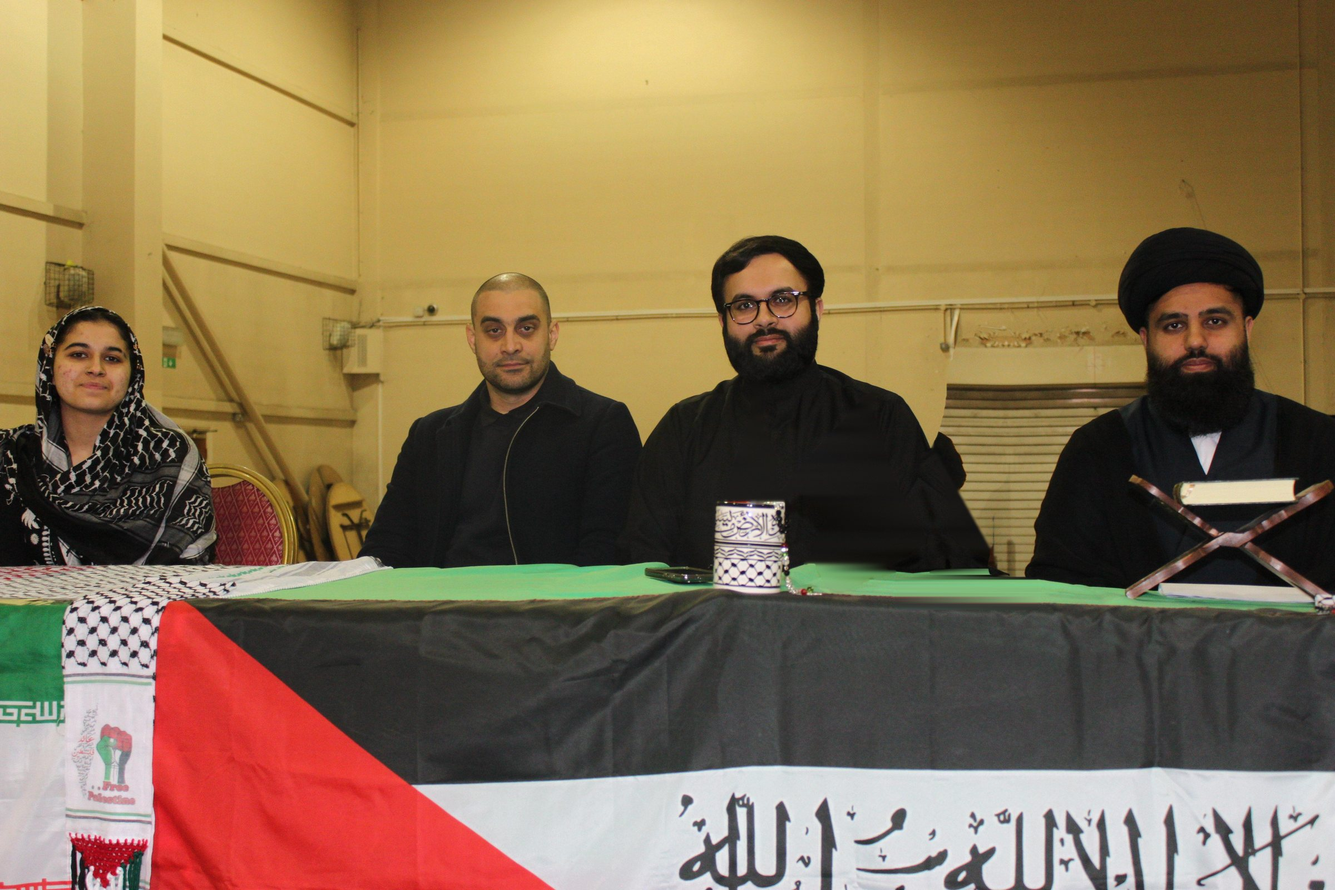
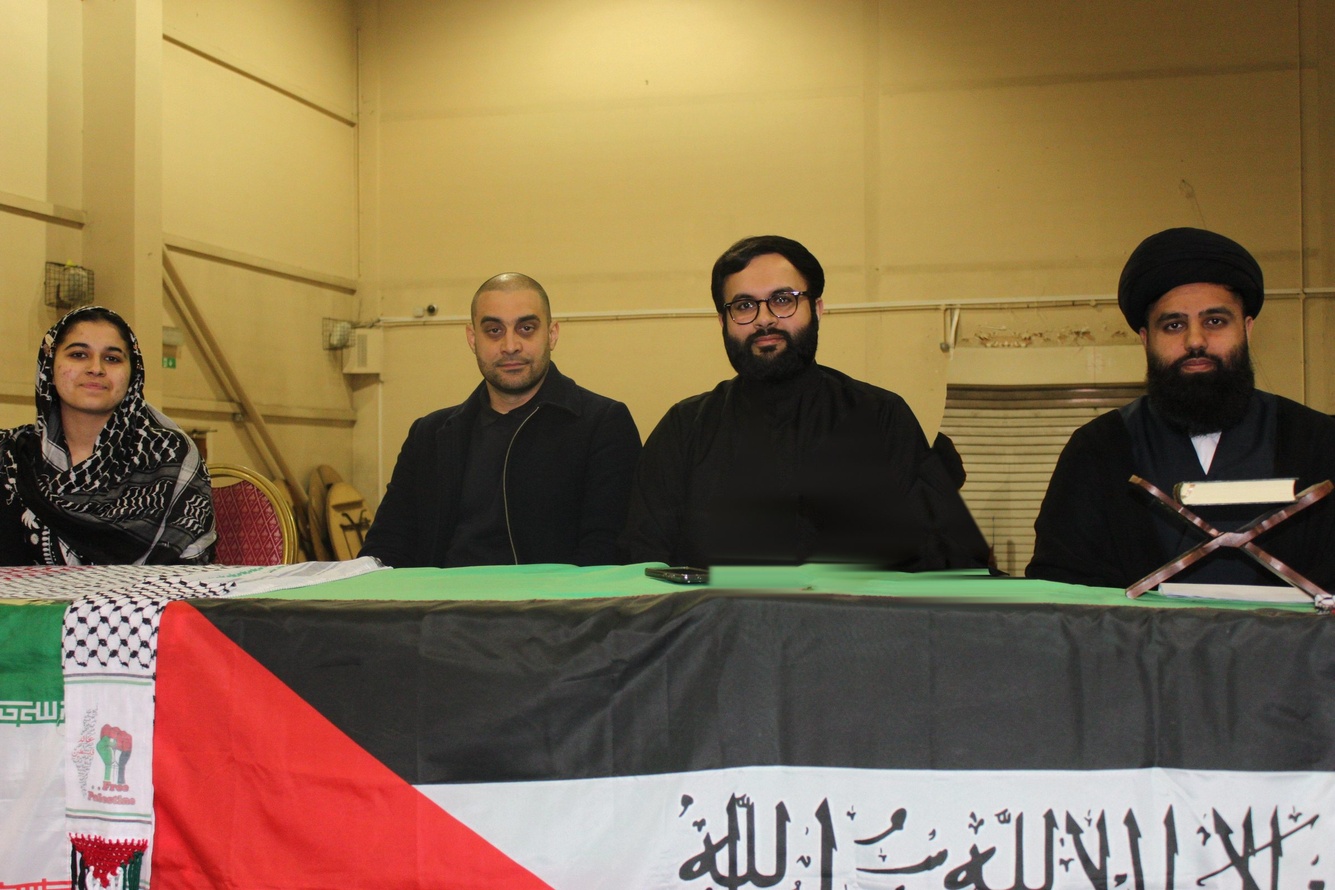
About: say Prophet Muhammad and his family; panel photo without mug, smoother fill
Claude-Session: https://claude.ai/code/session_01QV4JHP9HG69dQTcpQonKx1

Changed region(s): [[0.5312, 0.5625, 0.625, 0.6875]]

diff --git a/about.html b/about.html
@@ -9,7 +9,7 @@
   <link rel="preconnect" href="https://fonts.gstatic.com" crossorigin>
   <link href="https://fonts.googleapis.com/css2?family=Oswald:wght@400;500;600;700&family=Inter:wght@400;500;600;700&display=swap" rel="stylesheet">
   <script>document.documentElement.className+=" js";</script>
-  <link rel="stylesheet" href="assets/css/style.css?v=20261126l">
+  <link rel="stylesheet" href="assets/css/style.css?v=20261126m">
   <link rel="icon" href="assets/img/afj-logo.jpeg">
 </head>
 <body>
@@ -50,7 +50,7 @@
     <div class="container">
       <p class="breadcrumb"><a href="index.html">Home</a> / About</p>
       <h1>About Us</h1>
-      <p>A student movement of the Ummah: standing with the oppressed, against every oppressor, in the way of Imam Hussain.</p>
+      <p>A student movement of the Ummah: standing with the oppressed, against every oppressor, in the way of Prophet Muhammad and his family.</p>
     </div>
   </section>
 
@@ -145,7 +145,7 @@
   <section class="bg-green">
     <div class="container reveal" style="max-width:860px;text-align:center">
       <p class="eyebrow">Our purpose</p>
-      <h2 style="font-style:italic;font-size:clamp(1.5rem,3.2vw,2.3rem);line-height:1.2;text-transform:none">To awaken our communities to the political duty Islam places upon us, inspired by the stand of Imam Hussain, and to mobilise them to end Zionism, resist imperialism and confront every form of oppression, from within the imperial core to every land where the oppressed rise.</h2>
+      <h2 style="font-style:italic;font-size:clamp(1.5rem,3.2vw,2.3rem);line-height:1.2;text-transform:none">To awaken our communities to the political duty Islam places upon us, inspired by Prophet Muhammad and his family, and to mobilise them to end Zionism, resist imperialism and confront every form of oppression, from within the imperial core to every land where the oppressed rise.</h2>
       <p>Our activism is God-centric and revolutionary. We act for the sake of Allah, guided by our scholars. Anti-Zionism is a protected belief under British law, and we will not be intimidated into silence.</p>
       <p>The Prophet taught that the believers are like one body: when one part aches, the whole body feels the pain. Gaza aches. Lebanon aches. Yemen aches.</p>
       <a class="btn btn-primary" href="get-involved.html#join">Join us</a>

diff --git a/gallery.html b/gallery.html
@@ -9,7 +9,7 @@
   <link rel="preconnect" href="https://fonts.gstatic.com" crossorigin>
   <link href="https://fonts.googleapis.com/css2?family=Oswald:wght@400;500;600;700&family=Inter:wght@400;500;600;700&display=swap" rel="stylesheet">
   <script>document.documentElement.className+=" js";</script>
-  <link rel="stylesheet" href="assets/css/style.css?v=20261126l">
+  <link rel="stylesheet" href="assets/css/style.css?v=20261126m">
   <link rel="icon" href="assets/img/afj-logo.jpeg">
 </head>
 <body>
@@ -78,7 +78,7 @@
           <figcaption>Community Legal Workshop</figcaption>
         </figure>
         <figure class="m-item m-big">
-          <a href="assets/img/gallery/fatema-zainab-panel.jpeg?v=2" class="g-open" aria-label="View larger photo"><img src="assets/img/gallery/fatema-zainab-panel.jpeg?v=2" alt="Four panellists seated behind a table draped with Palestinian and Iranian flags" width="1200" height="800" loading="lazy" decoding="async"></a>
+          <a href="assets/img/gallery/fatema-zainab-panel.jpeg?v=3" class="g-open" aria-label="View larger photo"><img src="assets/img/gallery/fatema-zainab-panel.jpeg?v=3" alt="Four panellists seated behind a table draped with Palestinian and Iranian flags" width="1200" height="800" loading="lazy" decoding="async"></a>
           <figcaption>Solidarity with Fatema Zainab &ndash; Al Quds Day</figcaption>
         </figure>
         <figure class="m-item m-full">

diff --git a/index.html b/index.html
@@ -10,7 +10,7 @@
   <link href="https://fonts.googleapis.com/css2?family=Amiri:wght@400;700&display=swap" rel="stylesheet">
   <link href="https://fonts.googleapis.com/css2?family=Oswald:wght@400;500;600;700&family=Inter:wght@400;500;600;700&display=swap" rel="stylesheet">
   <script>document.documentElement.className+=" js";</script>
-  <link rel="stylesheet" href="assets/css/style.css?v=20261126l">
+  <link rel="stylesheet" href="assets/css/style.css?v=20261126m">
   <link rel="icon" href="assets/img/afj-logo.jpeg">
 </head>
 <body>
@@ -108,7 +108,7 @@
           <h3>Sign-Posting</h3>
           <p>Fostering unity around shared objectives, we connect Muslim students with lawyers, activists and relevant organisations, providing access to expertise, resources and networks that empower collective action.</p>
         </div>
-        <div class="card card--photo" style="--card-img:url(assets/img/gallery/fatema-zainab-panel.jpeg?v=2)">
+        <div class="card card--photo" style="--card-img:url(assets/img/gallery/fatema-zainab-panel.jpeg?v=3)">
           <div class="icon icon--num">IV</div>
           <h3>Events and Training</h3>
           <p>Through mobilisations, educational workshops and ABSoc training, we cultivate political consciousness and equip students with the knowledge, skills and confidence to take bold and meaningful action.</p>

diff --git a/assets/css/style.css b/assets/css/style.css
@@ -691,7 +691,7 @@ form.afj-form { display: grid; gap: 1rem; }
   color:#fff; padding: clamp(3.4rem,8vw,5.5rem) 0;
   border-bottom: 3px solid var(--gold);
 }
-.page-hero--about { background-image: linear-gradient(105deg, rgba(35,8,9,.86) 22%, rgba(45,11,12,.60) 100%), url("../img/gallery/fatema-zainab-panel.jpeg?v=2"); }
+.page-hero--about { background-image: linear-gradient(105deg, rgba(35,8,9,.86) 22%, rgba(45,11,12,.60) 100%), url("../img/gallery/fatema-zainab-panel.jpeg?v=3"); }
 .page-hero--work { background-image: linear-gradient(105deg, rgba(35,8,9,.86) 22%, rgba(45,11,12,.60) 100%), url("../img/gallery/event-panel-keffiyeh.jpeg"); background-position: center 0%; }
 .page-hero--gallery { background-image: linear-gradient(100deg, rgba(35,8,9,.92) 18%, rgba(35,8,9,.55) 45%, rgba(35,8,9,.2) 100%), url("../img/gallery/banner-enemy-oppressor.jpeg"); background-position: 70% center; background-size: cover; }
 .page-hero--reading { background-image: linear-gradient(105deg, rgba(35,8,9,.86) 22%, rgba(45,11,12,.60) 100%), url("../img/gallery/hall-packed-audience.jpeg"); }

diff --git a/library.html b/library.html
@@ -9,7 +9,7 @@
   <link rel="preconnect" href="https://fonts.gstatic.com" crossorigin>
   <link href="https://fonts.googleapis.com/css2?family=Oswald:wght@400;500;600;700&family=Inter:wght@400;500;600;700&display=swap" rel="stylesheet">
   <script>document.documentElement.className+=" js";</script>
-  <link rel="stylesheet" href="assets/css/style.css?v=20261126l">
+  <link rel="stylesheet" href="assets/css/style.css?v=20261126m">
   <link rel="stylesheet" href="assets/css/reading-list.css?v=20261031s">
   <link rel="icon" href="assets/img/afj-logo.jpeg">
 </head>

diff --git a/campaigns.html b/campaigns.html
@@ -10,7 +10,7 @@
   <link href="https://fonts.googleapis.com/css2?family=Amiri:wght@400;700&display=swap" rel="stylesheet">
   <link href="https://fonts.googleapis.com/css2?family=Oswald:wght@400;500;600;700&family=Inter:wght@400;500;600;700&display=swap" rel="stylesheet">
   <script>document.documentElement.className+=" js";</script>
-  <link rel="stylesheet" href="assets/css/style.css?v=20261126l">
+  <link rel="stylesheet" href="assets/css/style.css?v=20261126m">
   <link rel="icon" href="assets/img/afj-logo.jpeg">
 </head>
 <body>

diff --git a/take-action-azerbaijan.html b/take-action-azerbaijan.html
@@ -10,7 +10,7 @@
   <link href="https://fonts.googleapis.com/css2?family=Amiri:wght@400;700&display=swap" rel="stylesheet">
   <link href="https://fonts.googleapis.com/css2?family=Oswald:wght@400;500;600;700&family=Inter:wght@400;500;600;700&display=swap" rel="stylesheet">
   <script>document.documentElement.className+=" js";</script>
-  <link rel="stylesheet" href="assets/css/style.css?v=20261126l">
+  <link rel="stylesheet" href="assets/css/style.css?v=20261126m">
   <link rel="icon" href="assets/img/afj-logo.jpeg">
 </head>
 <body>

diff --git a/take-action-city.html b/take-action-city.html
@@ -10,7 +10,7 @@
   <link href="https://fonts.googleapis.com/css2?family=Amiri:wght@400;700&display=swap" rel="stylesheet">
   <link href="https://fonts.googleapis.com/css2?family=Oswald:wght@400;500;600;700&family=Inter:wght@400;500;600;700&display=swap" rel="stylesheet">
   <script>document.documentElement.className+=" js";</script>
-  <link rel="stylesheet" href="assets/css/style.css?v=20261126l">
+  <link rel="stylesheet" href="assets/css/style.css?v=20261126m">
   <link rel="icon" href="assets/img/afj-logo.jpeg">
 </head>
 <body>

diff --git a/articles.html b/articles.html
@@ -9,7 +9,7 @@
   <link rel="preconnect" href="https://fonts.gstatic.com" crossorigin>
   <link href="https://fonts.googleapis.com/css2?family=Oswald:wght@400;500;600;700&family=Inter:wght@400;500;600;700&display=swap" rel="stylesheet">
   <script>document.documentElement.className+=" js";</script>
-  <link rel="stylesheet" href="assets/css/style.css?v=20261126l">
+  <link rel="stylesheet" href="assets/css/style.css?v=20261126m">
   <link rel="icon" href="assets/img/afj-logo.jpeg">
 </head>
 <body>

diff --git a/contact.html b/contact.html
@@ -9,7 +9,7 @@
   <link rel="preconnect" href="https://fonts.gstatic.com" crossorigin>
   <link href="https://fonts.googleapis.com/css2?family=Oswald:wght@400;500;600;700&family=Inter:wght@400;500;600;700&display=swap" rel="stylesheet">
   <script>document.documentElement.className+=" js";</script>
-  <link rel="stylesheet" href="assets/css/style.css?v=20261126l">
+  <link rel="stylesheet" href="assets/css/style.css?v=20261126m">
   <link rel="icon" href="assets/img/afj-logo.jpeg">
 </head>
 <body>

diff --git a/events.html b/events.html
@@ -9,7 +9,7 @@
   <link rel="preconnect" href="https://fonts.gstatic.com" crossorigin>
   <link href="https://fonts.googleapis.com/css2?family=Oswald:wght@400;500;600;700&family=Inter:wght@400;500;600;700&display=swap" rel="stylesheet">
   <script>document.documentElement.className+=" js";</script>
-  <link rel="stylesheet" href="assets/css/style.css?v=20261126l">
+  <link rel="stylesheet" href="assets/css/style.css?v=20261126m">
   <link rel="icon" href="assets/img/afj-logo.jpeg">
 </head>
 <body>

diff --git a/get-involved.html b/get-involved.html
@@ -9,7 +9,7 @@
   <link rel="preconnect" href="https://fonts.gstatic.com" crossorigin>
   <link href="https://fonts.googleapis.com/css2?family=Oswald:wght@400;500;600;700&family=Inter:wght@400;500;600;700&display=swap" rel="stylesheet">
   <script>document.documentElement.className+=" js";</script>
-  <link rel="stylesheet" href="assets/css/style.css?v=20261126l">
+  <link rel="stylesheet" href="assets/css/style.css?v=20261126m">
   <link rel="icon" href="assets/img/afj-logo.jpeg">
 </head>
 <body>
